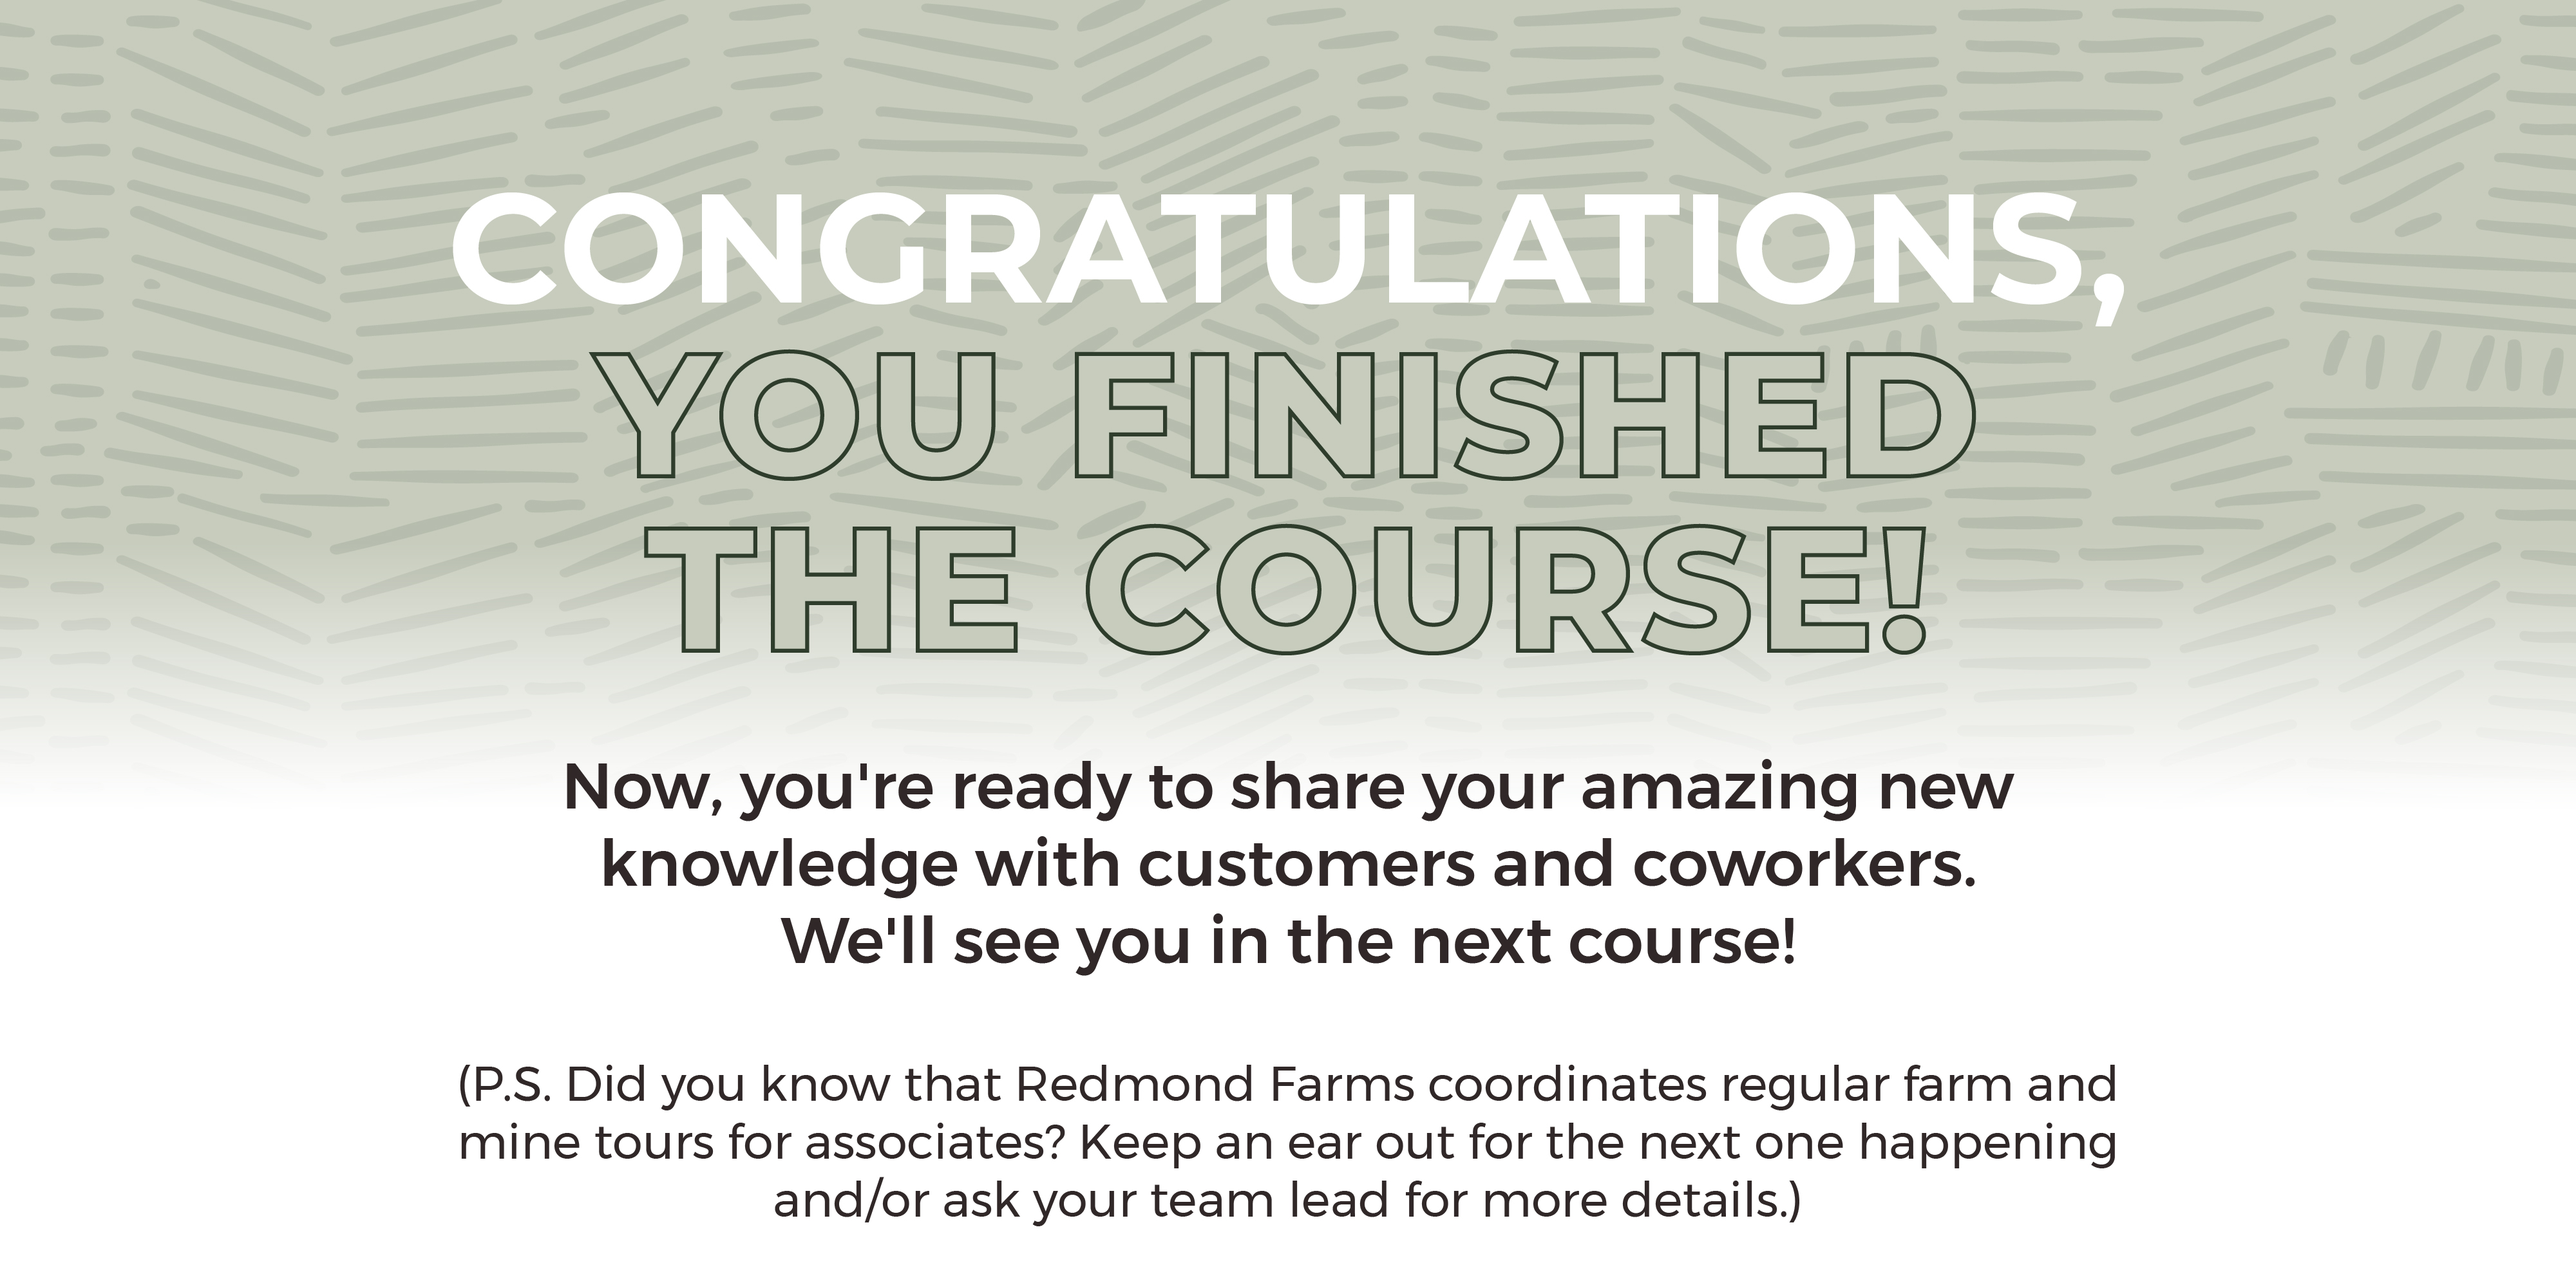
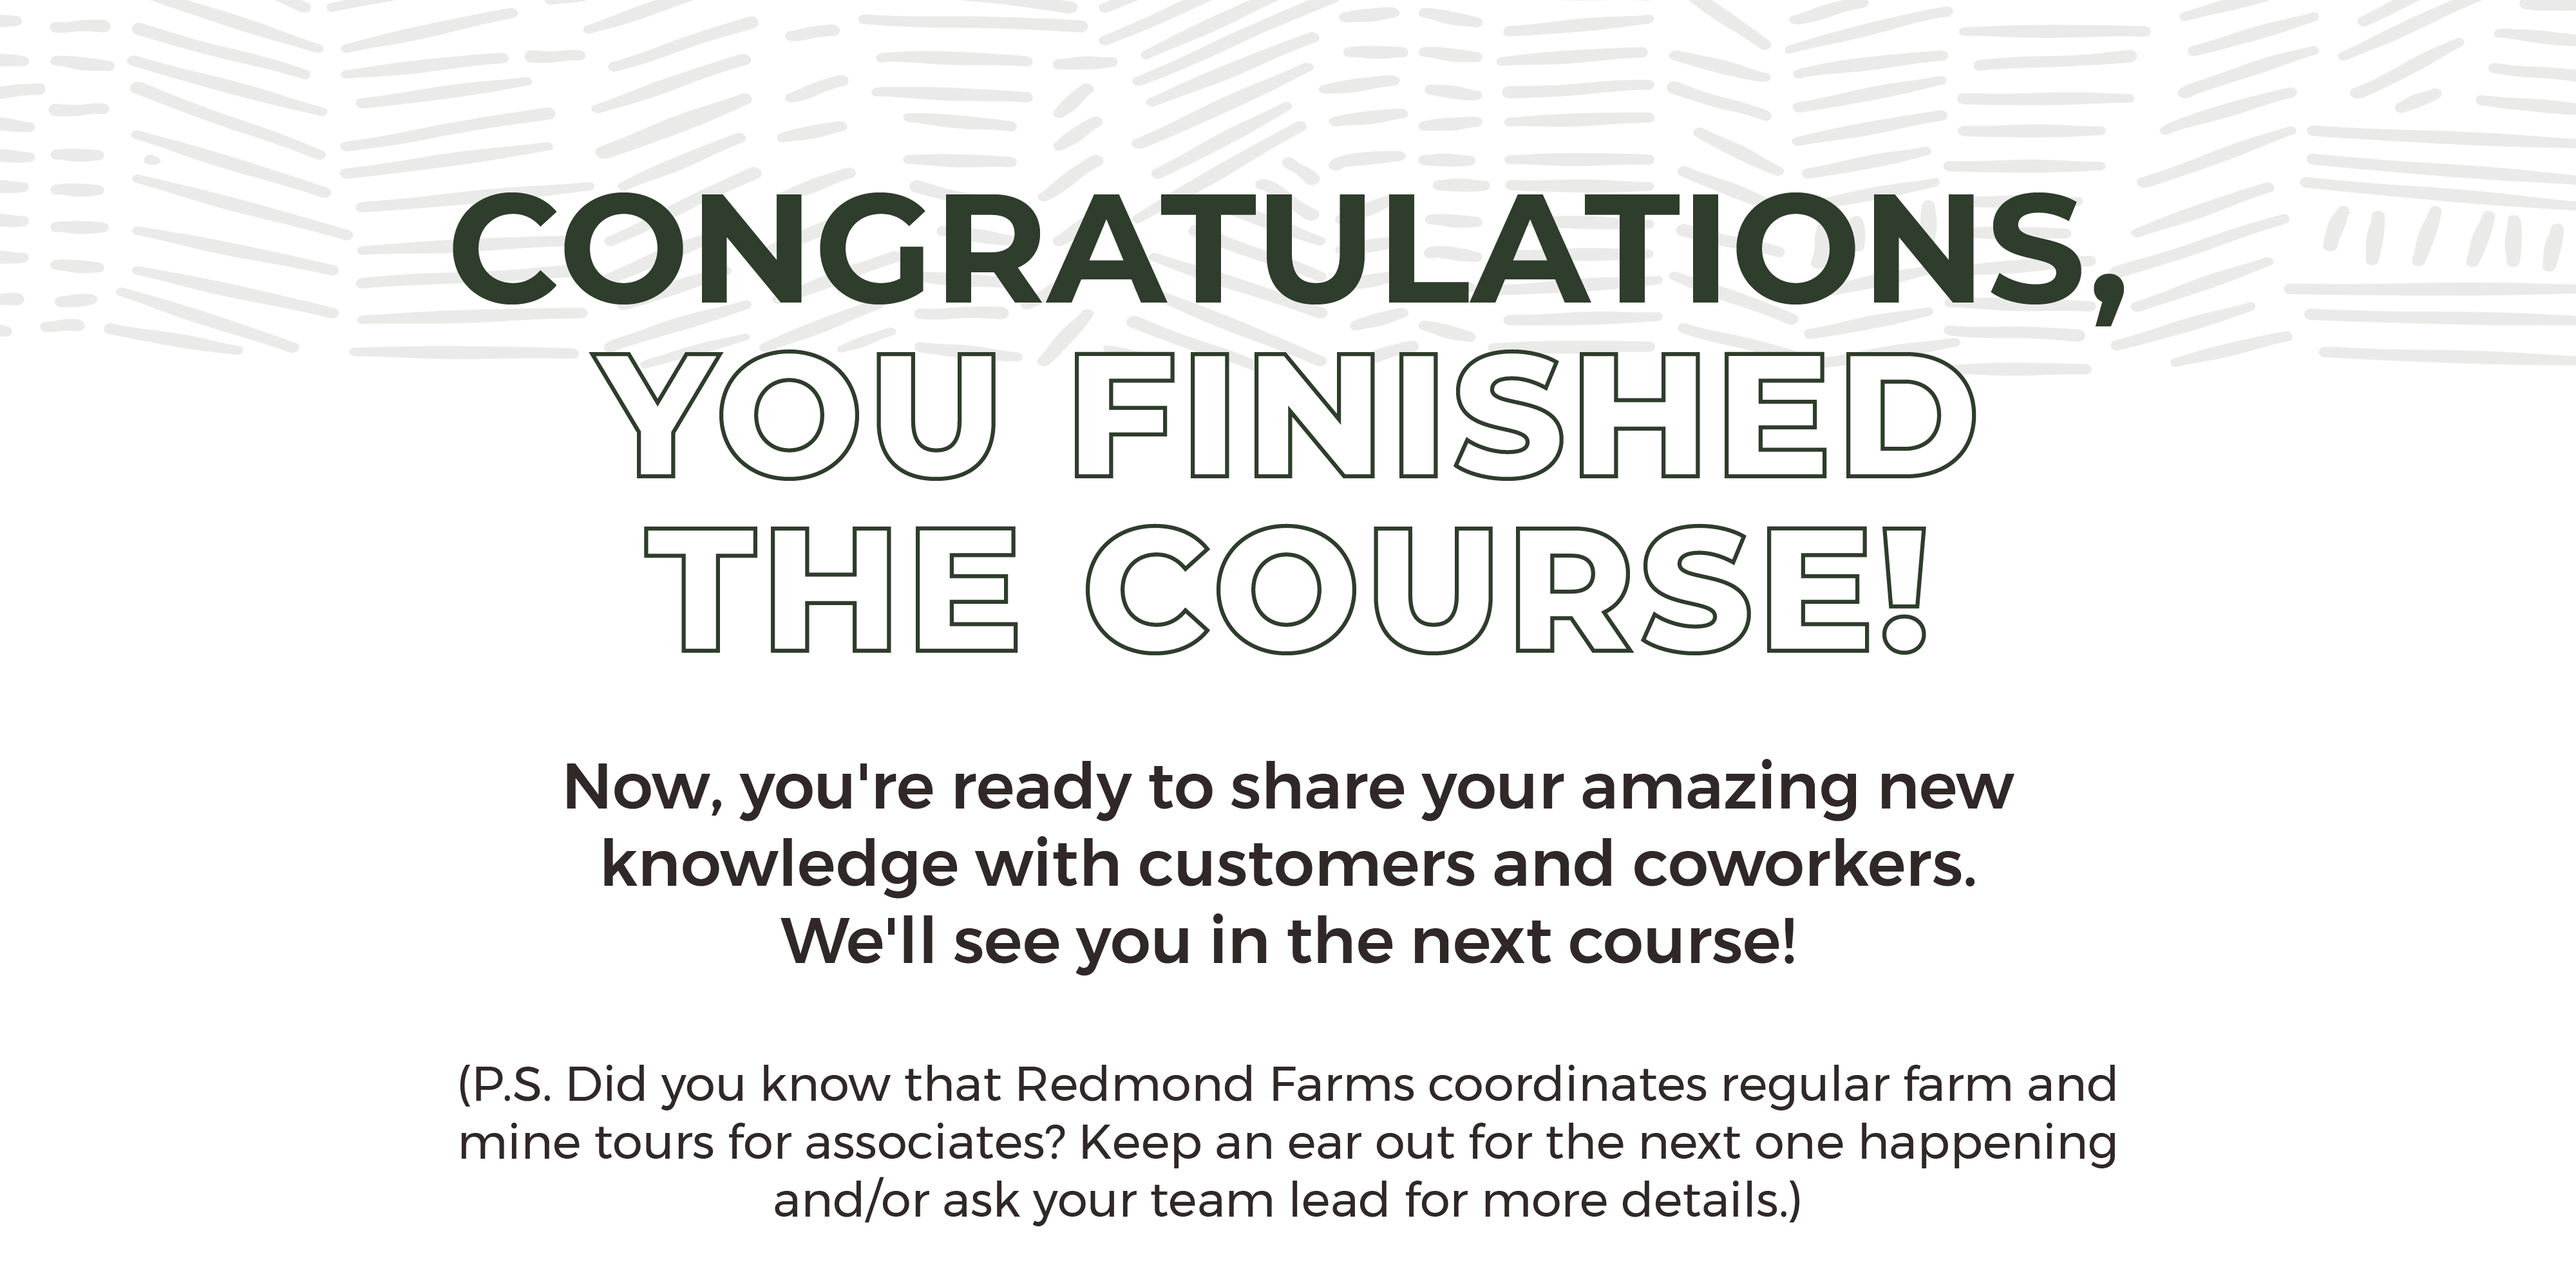
# rf game updates

diff --git a/apps/finish-rf/index.html b/apps/finish-rf/index.html
@@ -319,6 +319,36 @@
         transition-delay: 0s;
       }
 
+      .test-celebrate-button {
+        position: fixed;
+        right: 16px;
+        bottom: 16px;
+        z-index: 30;
+        padding: 10px 14px;
+        border: 1px solid rgba(39, 64, 48, 0.24);
+        border-radius: 8px;
+        background: #fff6ed;
+        color: #274030;
+        box-shadow: 0 10px 24px rgba(39, 64, 48, 0.16);
+        cursor: pointer;
+        font-family: "Montserrat", "Avenir Next", sans-serif;
+        font-size: 0.78rem;
+        font-weight: 800;
+        letter-spacing: 0;
+      }
+
+      .test-celebrate-button:hover,
+      .test-celebrate-button:focus-visible {
+        background: #ffffff;
+        outline: 2px solid rgba(199, 136, 83, 0.42);
+        outline-offset: 2px;
+      }
+
+      .test-celebrate-button:disabled {
+        cursor: not-allowed;
+        opacity: 0.58;
+      }
+
       @keyframes buttonPulse {
         0%,
         100% {
@@ -444,10 +474,17 @@
       </section>
     </main>
 
+    <!-- TODO: Remove this temporary test trigger before publishing. -->
+    <button class="test-celebrate-button" id="test-celebrate-button" type="button">
+      Test celebration
+    </button>
+
     <script>
       (() => {
         const celebration = document.getElementById("celebration");
         const celebrateButton = document.getElementById("celebrate-button");
+        const testCelebrateButton = document.getElementById("test-celebrate-button");
+        const celebrationButtons = [celebrateButton, testCelebrateButton].filter(Boolean);
         const celebrationActions = document.querySelector(".celebration-actions");
         const celebrateExplode = document.getElementById("celebrate-explode");
         const confettiCanvas = document.getElementById("confetti-canvas");
@@ -455,6 +492,8 @@
         const clapsAudio = document.getElementById("claps-audio");
         const finishAudio = document.getElementById("finish-audio");
         const celebrationDurationMs = 10000;
+        const clapsVolume = 1;
+        const finishVolume = 1;
         let confettiParticles = [];
         let confettiFrame = 0;
         let confettiUntil = 0;
@@ -593,9 +632,10 @@
             if (!audio) return;
             audio.pause();
             audio.currentTime = 0;
-            audio.volume = 1;
             audio.loop = false;
           });
+          if (clapsAudio) clapsAudio.volume = clapsVolume;
+          if (finishAudio) finishAudio.volume = finishVolume;
         }
 
         function stopCelebrationVisual() {
@@ -603,7 +643,9 @@
             window.clearTimeout(celebrationUiTimer);
             celebrationUiTimer = 0;
           }
-          celebrateButton.disabled = false;
+          celebrationButtons.forEach((button) => {
+            button.disabled = false;
+          });
           celebration.classList.remove("is-playing");
           celebrationActions.classList.remove("is-playing");
 
@@ -619,7 +661,9 @@
             window.clearTimeout(celebrationUiTimer);
             celebrationUiTimer = 0;
           }
-          celebrateButton.disabled = true;
+          celebrationButtons.forEach((button) => {
+            button.disabled = true;
+          });
           celebration.classList.add("is-playing");
           celebrationActions.classList.add("is-playing");
 
@@ -641,8 +685,8 @@
 
           if (!clapsAudio || !finishAudio) return;
 
-          const clapsStartVolume = 0.95;
-          const finishStartVolume = 0.8;
+          const clapsStartVolume = clapsVolume;
+          const finishStartVolume = finishVolume;
           const fadeDurationMs = Math.min(2200, Math.max(1400, Math.floor(durationMs * 0.3)));
           const fadeStartMs = Math.max(0, durationMs - fadeDurationMs);
 
@@ -677,15 +721,18 @@
           }, durationMs);
         }
 
-        if (celebrateButton) {
-          celebrateButton.addEventListener("click", () => {
-            if (celebrateButton.disabled) return;
-
-            startCelebrationVisual(celebrationDurationMs);
-            startConfetti(celebrationDurationMs);
-            startApplause(celebrationDurationMs).catch(() => {});
-          });
+        function triggerCelebration() {
+          startCelebrationVisual(celebrationDurationMs);
+          startConfetti(celebrationDurationMs);
+          startApplause(celebrationDurationMs).catch(() => {});
         }
+
+        celebrationButtons.forEach((button) => {
+          button.addEventListener("click", () => {
+            if (button.disabled) return;
+            triggerCelebration();
+          });
+        });
 
         window.addEventListener("resize", resizeConfettiCanvas, { passive: true });
         window.addEventListener("pagehide", () => {
